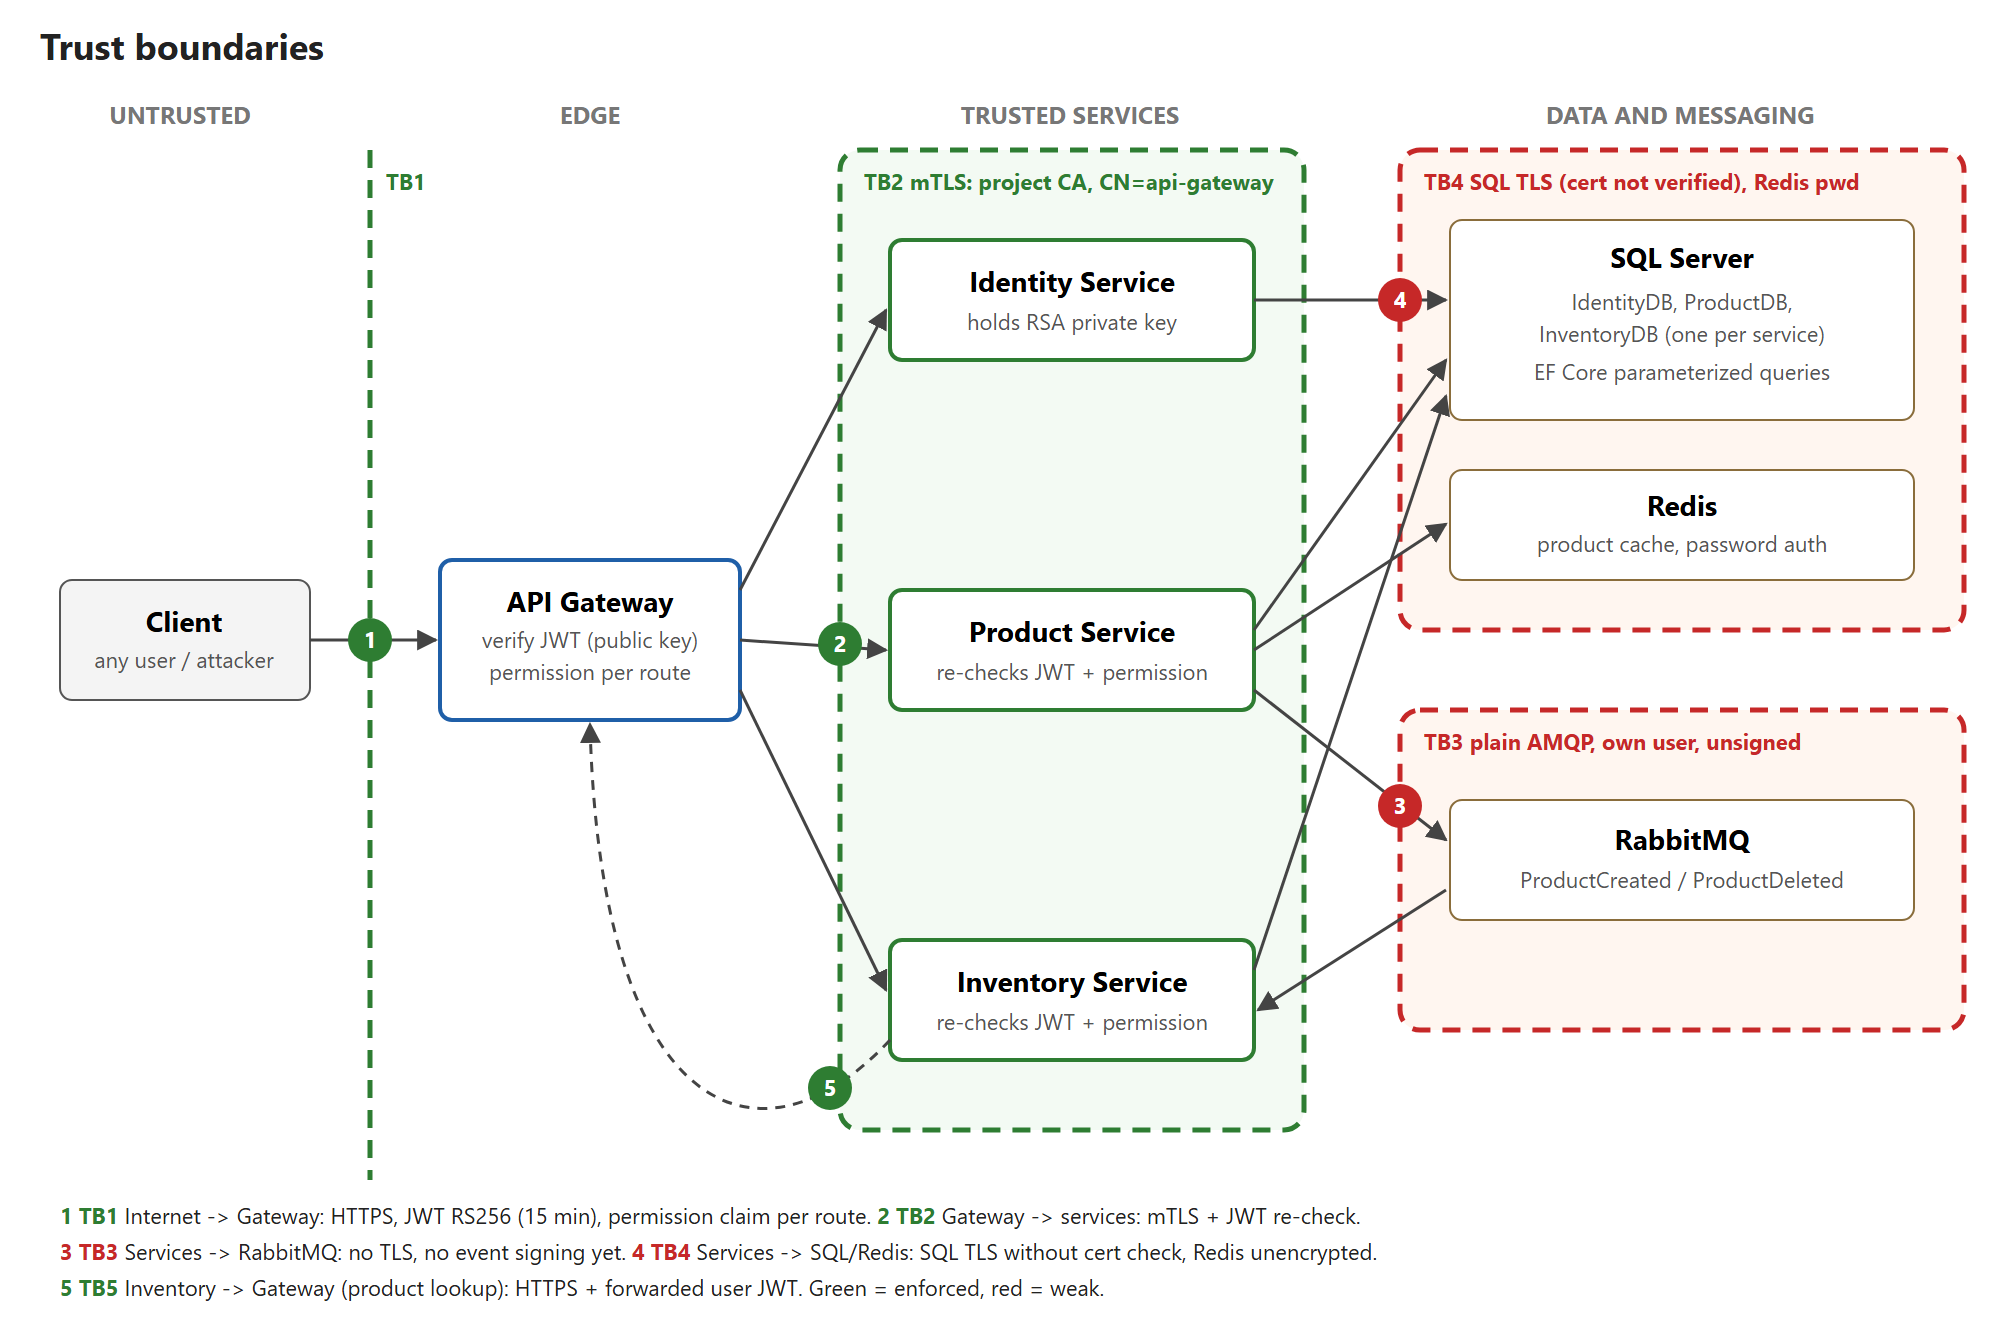
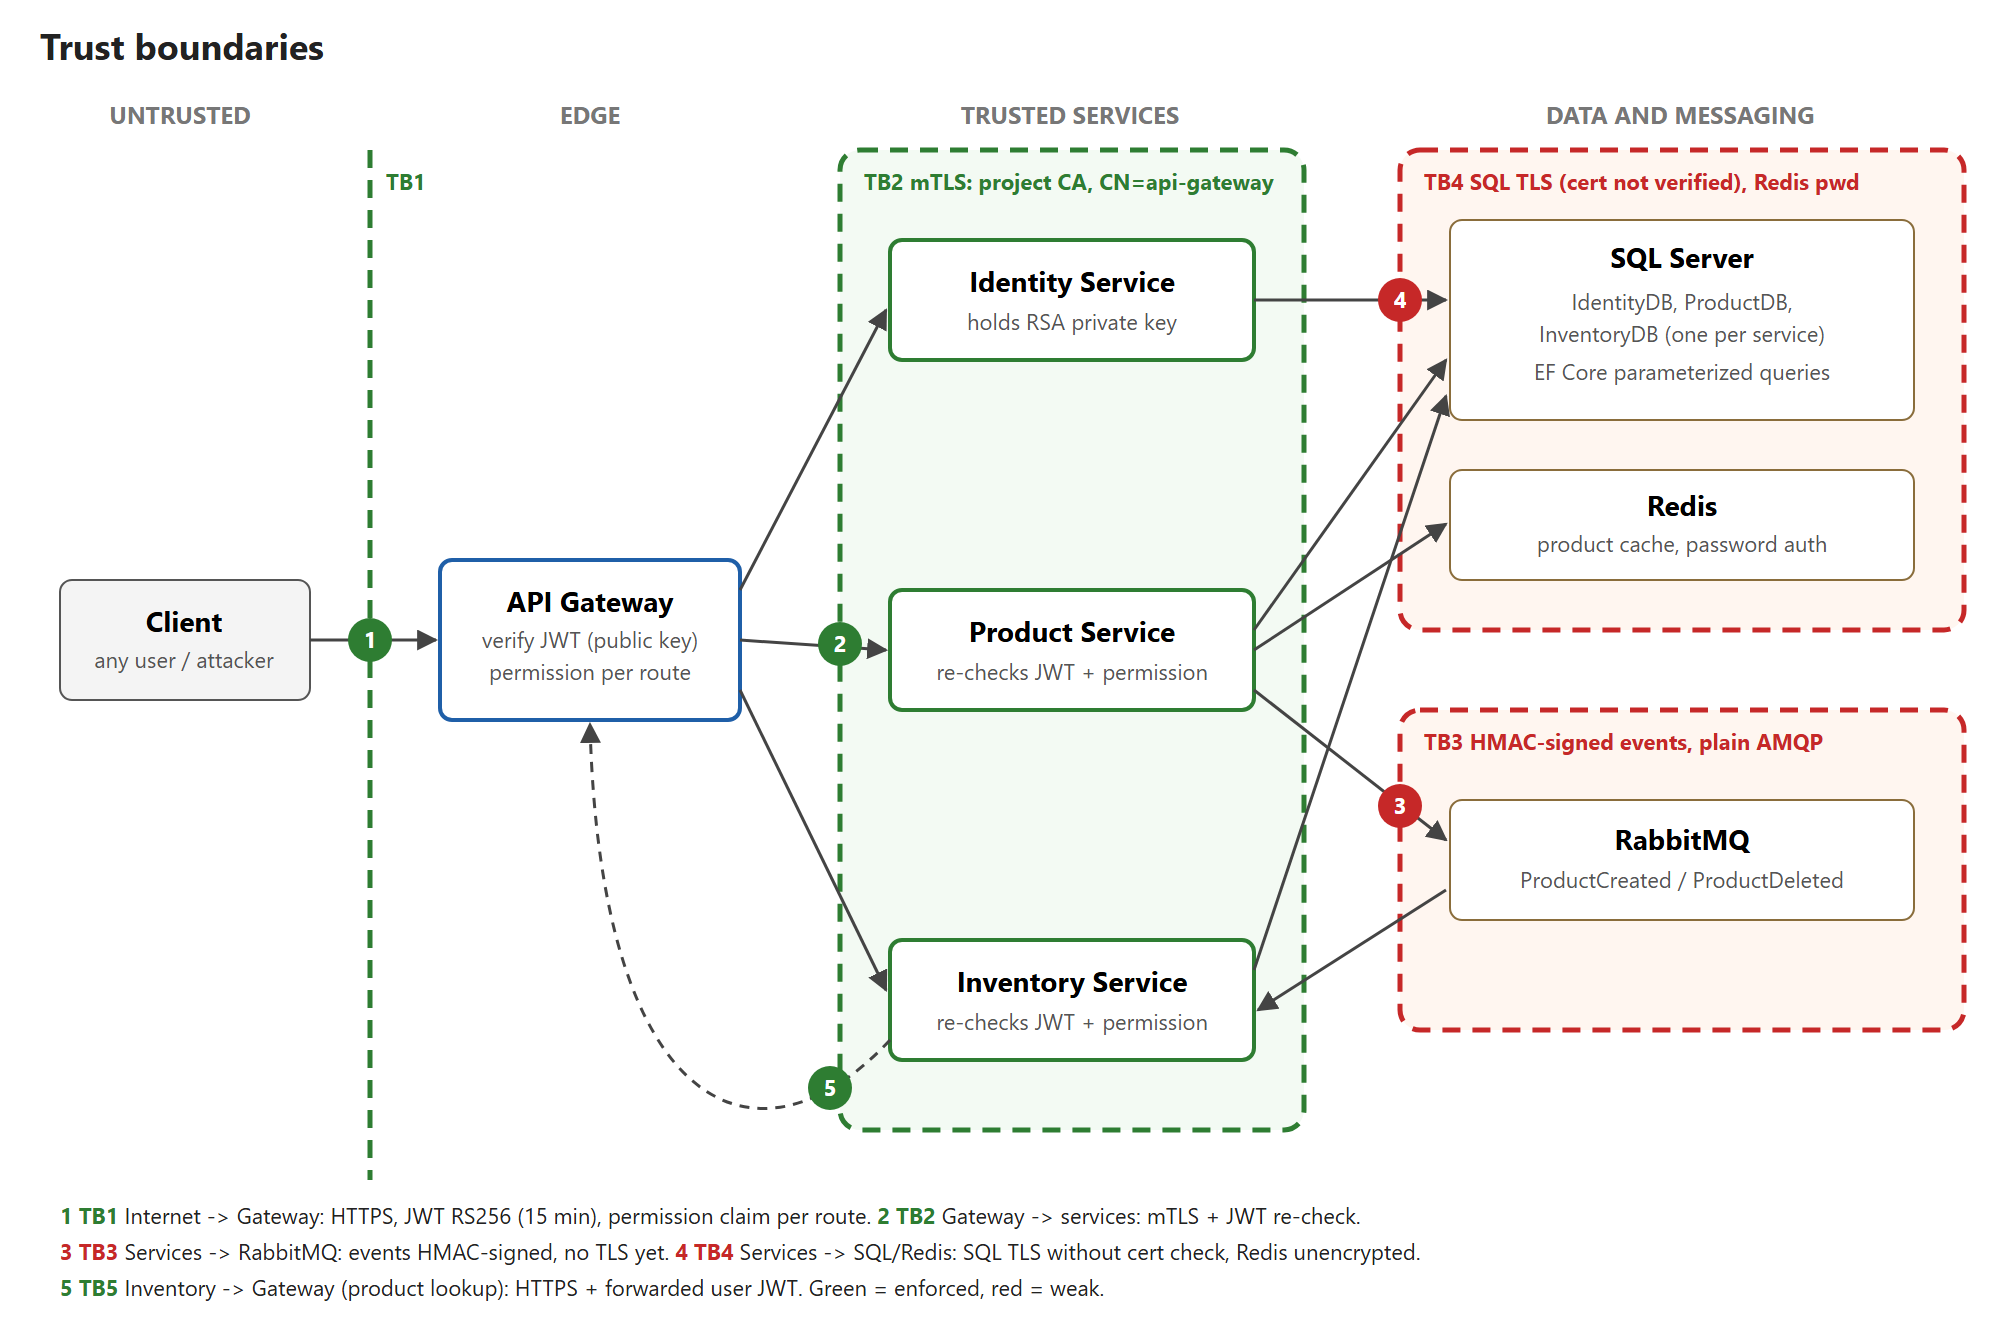
message signing key in .env; docs - S5/D1 done, T3 partial

Changed region(s): [[0.186, 0.9318, 0.713, 0.9629], [0.744, 0.5591, 0.899, 0.5902]]

diff --git a/docs/threat-model.md b/docs/threat-model.md
@@ -24,7 +24,7 @@ Secure Microservices Inventory System. State as of 2026-10-23.
 |---|---|---|
 | TB1 | Internet -> API Gateway | HTTPS, JWT, permission check per route |
 | TB2 | Gateway -> services | mTLS, project CA only, CN=api-gateway |
-| TB3 | Services -> RabbitMQ | Dedicated broker user (no guest); plain AMQP, unsigned events |
+| TB3 | Services -> RabbitMQ | Dedicated broker user; HMAC-SHA256 signed events, 5-min replay window; plain AMQP |
 | TB4 | Services -> SQL Server, Redis | EF Core; SQL Encrypt=True (cert not verified); Redis password |
 | TB5 | Inventory -> Gateway (product lookup) | HTTPS, forwarded user JWT |
 
@@ -36,10 +36,10 @@ Secure Microservices Inventory System. State as of 2026-10-23.
 | S2 | Spoofing | All | Algorithm confusion (none, HS256, RS384) | High | ValidAlgorithms pinned to RS256 (incl. refresh) | Done |
 | S3 | Spoofing | Services | Direct call bypassing gateway | High | mTLS; services reject any client cert except gateway's | Done |
 | S4 | Spoofing | Identity | Password brute force / weak passwords | High | Gateway 5 req/min per IP on /auth/*; lockout after 5 failures (15 min); min 12 chars, 6 unique (NIST 800-63B), enforced on user creation | Done |
-| S5 | Spoofing | RabbitMQ | Fake events published with default credentials | High | Dedicated broker user from user-secrets (done); HMAC-signed events (planned) | Partial |
+| S5 | Spoofing | RabbitMQ | Fake events published by anyone with broker access | High | Dedicated broker user from user-secrets; Inventory accepts only events HMAC-signed with a key shared by Product and Inventory | Done |
 | T1 | Tampering | Gateway, services | Edited JWT payload (add permission) | High | Signature validated at gateway and again in service | Done |
 | T2 | Tampering | TB2 | MITM between gateway and services | High | TLS + mTLS, custom CA trust, hostname check | Done |
-| T3 | Tampering | RabbitMQ | Modified event (Quantity, ProductId) | High | HMAC per event, AMQP over TLS | Planned |
+| T3 | Tampering | RabbitMQ | Modified or replayed event (Quantity, ProductId) | High | HMAC over type + timestamp + body, checked in a consume filter; rejects go to the _error queue (done). Replays within 5 min, AMQP TLS (planned) | Partial |
 | T4 | Tampering | Services, DB | SQL injection | Medium | EF Core parameterized queries; FluentValidation in Identity, Product | Partial (Inventory: no validators) |
 | R1 | Repudiation | Product, Inventory | No record of who changed products or stock | Medium | Audit log with user id (NameIdentifier) per write | Planned |
 | I1 | Info disclosure | Gateway | Exception messages and internal URLs in responses | Medium | Generic messages; details to server log | Done |
@@ -49,7 +49,7 @@ Secure Microservices Inventory System. State as of 2026-10-23.
 | I5 | Info disclosure | Identity DB | Refresh tokens stored in plaintext | Medium | Store SHA-256 hash, constant-time compare | Planned |
 | I6 | Info disclosure | JWT | Email and phone in readable token payload | Low | Keep only id and permissions | Planned |
 | I7 | Info disclosure | TB4 | SQL traffic unencrypted | Medium | Encrypt=True (done); trusted server cert instead of TrustServerCertificate=True (planned) | Partial |
-| D1 | DoS | Inventory | ProductCreated.Quantity unbounded; consumer creates one row per unit | High | Max quantity in validator and consumer | Planned |
+| D1 | DoS | Inventory | ProductCreated.Quantity unbounded; consumer creates one row per unit | High | Quantity 1..1000 in Product validators and again in the Inventory consumer | Done |
 | D2 | DoS | Gateway | No request rate limiting | Medium | Per-IP limit on /auth/* (done); other routes (planned) | Partial |
 | D3 | DoS | All | Oversized bodies (Kestrel default ~28 MB) | Low | Lower MaxRequestBodySize | Planned |
 | E1 | EoP | Gateway, services | Basic user calls admin endpoint (BFLA) | High | Permission claim at gateway (RouteClaimsRequirement) + [HasPermission] in service | Done |
@@ -62,13 +62,13 @@ Secure Microservices Inventory System. State as of 2026-10-23.
 
 | Status | Count |
 |---|---|
-| Done | 10 |
+| Done | 12 |
 | Partial | 7 |
-| Planned | 7 |
+| Planned | 5 |
 | N/A | 1 |
 
 ## Top open risks
 
-- S5, T3: queue events not signed; any broker user can forge stock changes.
-- D1: unbounded Quantity in events.
 - I5: refresh tokens stored in plaintext.
+- T3: AMQP not encrypted; signed events can be replayed within 5 minutes.
+- R1: no audit log of who changed products or stock.
